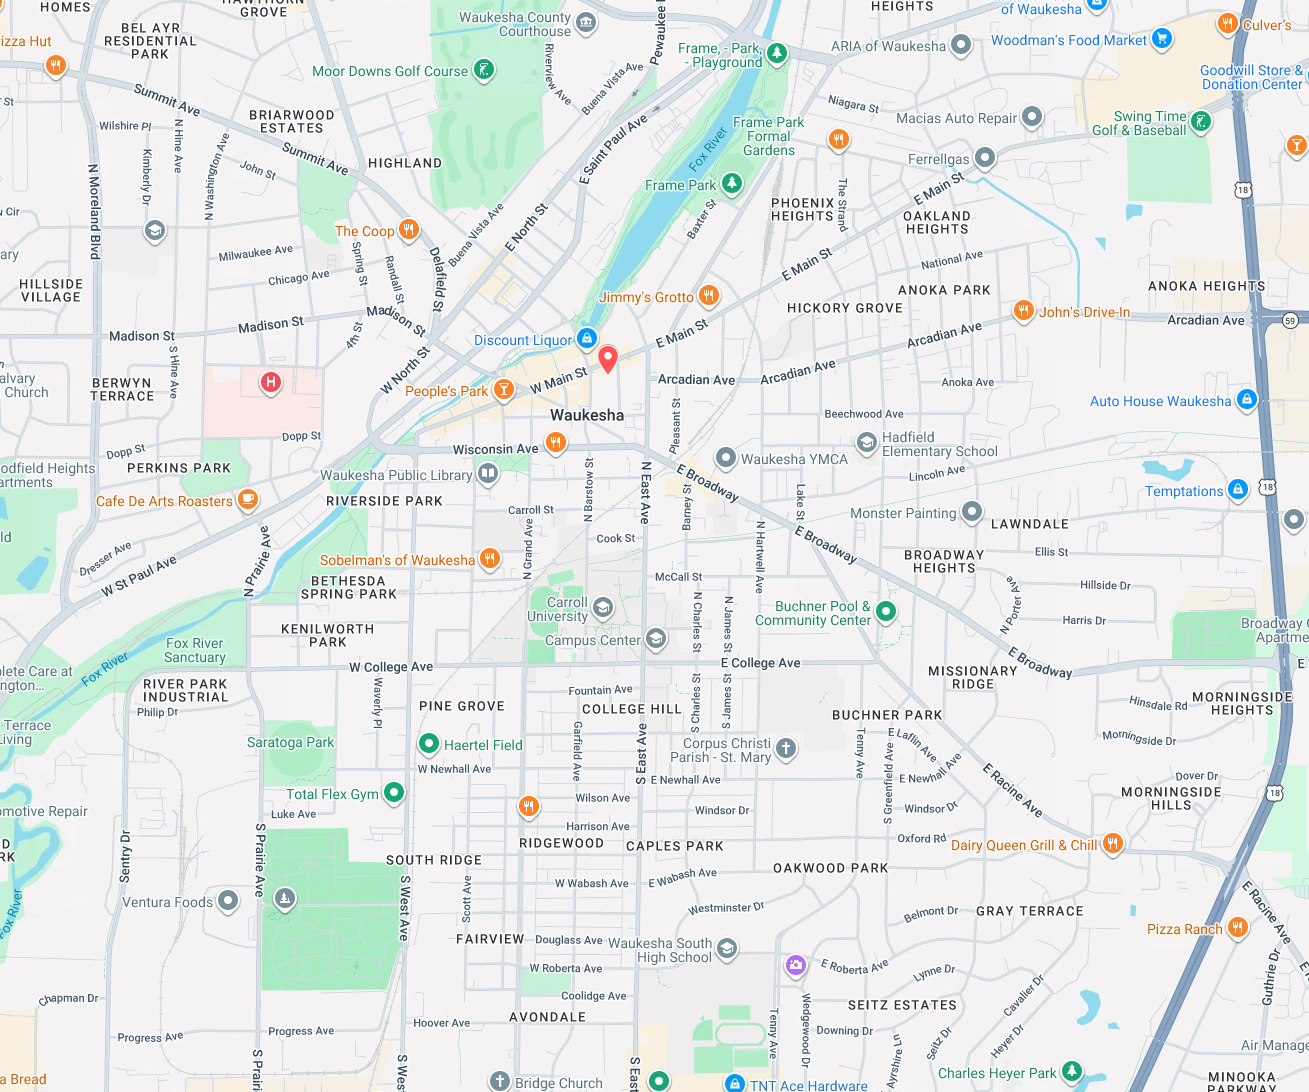
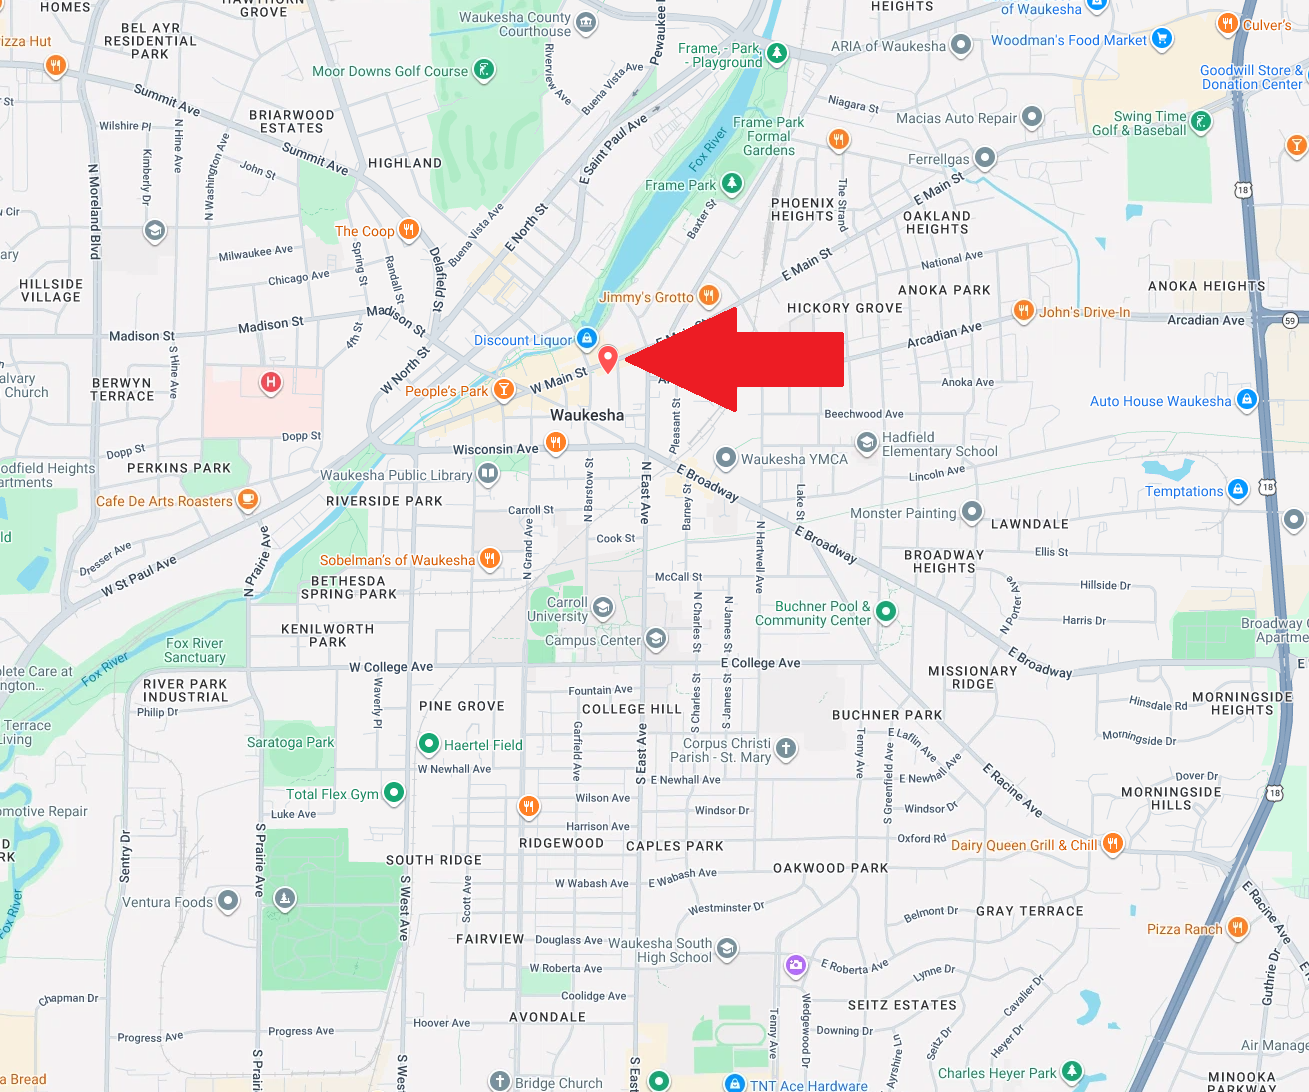
Home Page & Menu Updates

Changed region(s): [[0.4584, 0.2802, 0.6417, 0.3736]]

diff --git a/index.html b/index.html
@@ -8,41 +8,44 @@
     <script src="js/script.js" defer></script>
 </head>
 <body>
-    <nav>
-        <ul class="menu">
-            <li><a href="index.html">Home</a></li>
-            <li><a href="menu.html">Menu</a></li>
-            <li><a href="reviews.html">Reviews</a></li>
-            <li><a href="signin.html">Sign In</a></li>
-        </ul>
-    </nav>
-
+    <header>
+        <nav>
+            <ul class="menu">
+                <li><a href="index.html">Home</a></li>
+                <li><a href="menu.html">Menu</a></li>
+                <li><a href="reviews.html">Reviews</a></li>
+                <li><a href="signin.html">Sign In</a></li>
+            </ul>
+        </nav>
+    </header>
+    
     <main class="container">
         <h1>Buffet Name PlaceHolder</h1>
-        <section class = "card">
-            <p>Welcome to our buffet! We offer a wide variety of dishes to satisfy every palate. From savory entrees to delectable desserts, our buffet has something for everyone. Come and enjoy a delightful dining experience with us!</p>
-            <p>Located at 1234 Buffet Street, Waukesha, WI 53177</p>
-        </section>
 
-        <section class = "card">
-            <img src="images/map.png" alt="Map to Buffet Name PlaceHolder" class="responsive-img">
-        </section>
+        <div class="content-grid">
+            <section class = "card about">
+                <p>Welcome to our buffet! We offer a wide variety of dishes to satisfy every palate. From savory entrees to delectable desserts, our buffet has something for everyone. Come and enjoy a delightful dining experience with us!</p>
+                <p>Located at 1234 Buffet Street, Waukesha, WI 53177</p>
+            </section>
 
-
-        <section class = "card">
-            <h2>Hours of Operation</h2>
-            <ol>
-                <li>Monday: 7:00 AM - 9:00 PM</li>
-                <li>Tuesday: 7:00 AM - 9:00 PM</li>
-                <li>Wednesday: 7:00 AM - 9:00 PM</li>
-                <li>Thursday: 7:00 AM - 9:00 PM</li>
-                <li>Friday: 7:00 AM - 9:00 PM</li>
-                <li>Saturday: 10:00 AM - 10:00 PM</li>
-                <li>Sunday: 10:00 AM - 10:00 PM</li>
-            </ol>
-        </section>
+            <section class = "card map">
+                <img src="images/map.png" alt="Map to Buffet Name PlaceHolder" class="responsive-img">
+            </section>
 
 
+            <section class = "card hours">
+                <h2>Hours of Operation</h2>
+                <ol>
+                    <li>Monday: 7:00 AM - 9:00 PM</li>
+                    <li>Tuesday: 7:00 AM - 9:00 PM</li>
+                    <li>Wednesday: 7:00 AM - 9:00 PM</li>
+                    <li>Thursday: 7:00 AM - 9:00 PM</li>
+                    <li>Friday: 7:00 AM - 9:00 PM</li>
+                    <li>Saturday: 10:00 AM - 10:00 PM</li>
+                    <li>Sunday: 10:00 AM - 10:00 PM</li>
+                </ol>
+            </section>
+        </div>
     </main>
 </body>
 </html>

diff --git a/menu.html b/menu.html
@@ -9,20 +9,36 @@
 </head>
 <body>
     <header>
-        <h1>Menu</h1>
+        <nav>
+            <ul class="menu">
+                <li><a href="index.html">Home</a></li>
+                <li><a href="menu.html">Menu</a></li>
+                <li><a href="reviews.html">Reviews</a></li>
+                <li><a href="signin.html">Sign In</a></li>
+            </ul>
+        </nav>
     </header>
 
-    <nav>
-        <ul class="menu">
-            <li><a href="index.html">Home</a></li>
-            <li><a href="menu.html">Menu</a></li>
-            <li><a href="reviews.html">Reviews</a></li>
-            <li><a href="signin.html">Sign In</a></li>
-        </ul>
-    </nav>
-
     <main class="container">
+        <h1>Menu</h1>
 
+        <h2 class="favorites-title">Guest Favorites</h2>
+        <div class = "favorites">
+            <section class = "card favorite-menu-item">
+                <img src="images/PrimeRibBuffet.png" alt="Prime Rib" class="responsive-img">
+                <h3>Prime Rib</h3>
+            </section>
+
+            <section class = "card favorite-menu-item">
+                <img src="images/steak.png" alt="Steak" class="responsive-img">
+                <h3>Steak</h3>
+            </section>
+
+            <section class = "card favorite-menu-item">
+                <img src="images/lobster.png" alt="Lobster" class="responsive-img">
+                <h3>Lobster</h3>
+            </section>
+        </div>
     </main>
 </body>
 </html>

diff --git a/css/style.css b/css/style.css
@@ -4,3 +4,95 @@ img {
     display: block;
     margin: 0 auto;
 }
+
+nav a {
+    color: gray;
+    text-decoration: none;
+    font-weight: bold;
+}
+
+nav a:hover {
+    color: blue;
+    text-decoration: underline;
+}
+
+.menu {
+    list-style-type: none;
+    padding: 0;
+    margin: 0;
+    display: flex;
+    flex-direction: column;
+    gap: 8px;
+}
+
+.content-grid {
+    display: grid;
+    grid-template-columns: 1fr;
+    gap: 20px;
+    align-items: start;
+}
+
+.about,
+.map,
+.hours {
+    grid-column: 1;
+    grid-row: auto;
+}
+
+.card {
+    padding: 20px;
+    border-radius: 8px;
+    background-color: #f5f5f5;
+}
+
+.favorites {
+    display: grid;
+    grid-template-columns: 1fr;
+    gap: 20px;
+    align-items: start;
+}
+
+.favorite-menu-item {
+    text-align: center;
+}
+
+.favorite-menu-item img {
+    width: 100%;
+    height: 200px;
+    object-fit: contain;
+    border-radius: 8px;
+}
+
+.favorites-title {
+    text-align: center;
+}
+
+@media (min-width: 700px) {
+    .menu {
+        flex-direction: row;
+        gap: 18px;
+    }
+
+    .content-grid {
+        grid-template-columns: 1fr 1fr;
+    }
+
+    .about {
+        grid-column: 1;
+        grid-row: 1 / 3;
+    }
+
+    .map {
+        grid-column: 2;
+        grid-row: 1;
+    }
+
+    .hours {
+        grid-column: 2;
+        grid-row: 2;
+    }
+
+    .favorites {
+        grid-template-columns: repeat(3, minmax(0, 1fr));
+    }
+}

diff --git a/reviews.html b/reviews.html
@@ -9,20 +9,19 @@
 </head>
 <body>
     <header>
-        <h1>Reviews</h1>
+        <nav>
+            <ul class="menu">
+                <li><a href="index.html">Home</a></li>
+                <li><a href="menu.html">Menu</a></li>
+                <li><a href="reviews.html">Reviews</a></li>
+                <li><a href="signin.html">Sign In</a></li>
+            </ul>
+        </nav>
+
     </header>
 
-    <nav>
-        <ul class="menu">
-            <li><a href="index.html">Home</a></li>
-            <li><a href="menu.html">Menu</a></li>
-            <li><a href="reviews.html">Reviews</a></li>
-            <li><a href="signin.html">Sign In</a></li>
-        </ul>
-    </nav>
-
     <main class="container">
-
+        <h1>Reviews</h1>
     </main>
 
 </body>

diff --git a/signin.html b/signin.html
@@ -9,9 +9,6 @@
 </head>
 <body>
     <header>
-        <h1>Sign In</h1>
-    </header>
-
     <nav>
         <ul class="menu">
             <li><a href="index.html">Home</a></li>
@@ -20,9 +17,12 @@
             <li><a href="signin.html">Sign In</a></li>
         </ul>
     </nav>
+    </header>
+
+
     
     <main class="container">
-
+        <h1>Sign In</h1>
     </main>
 
 </body>
